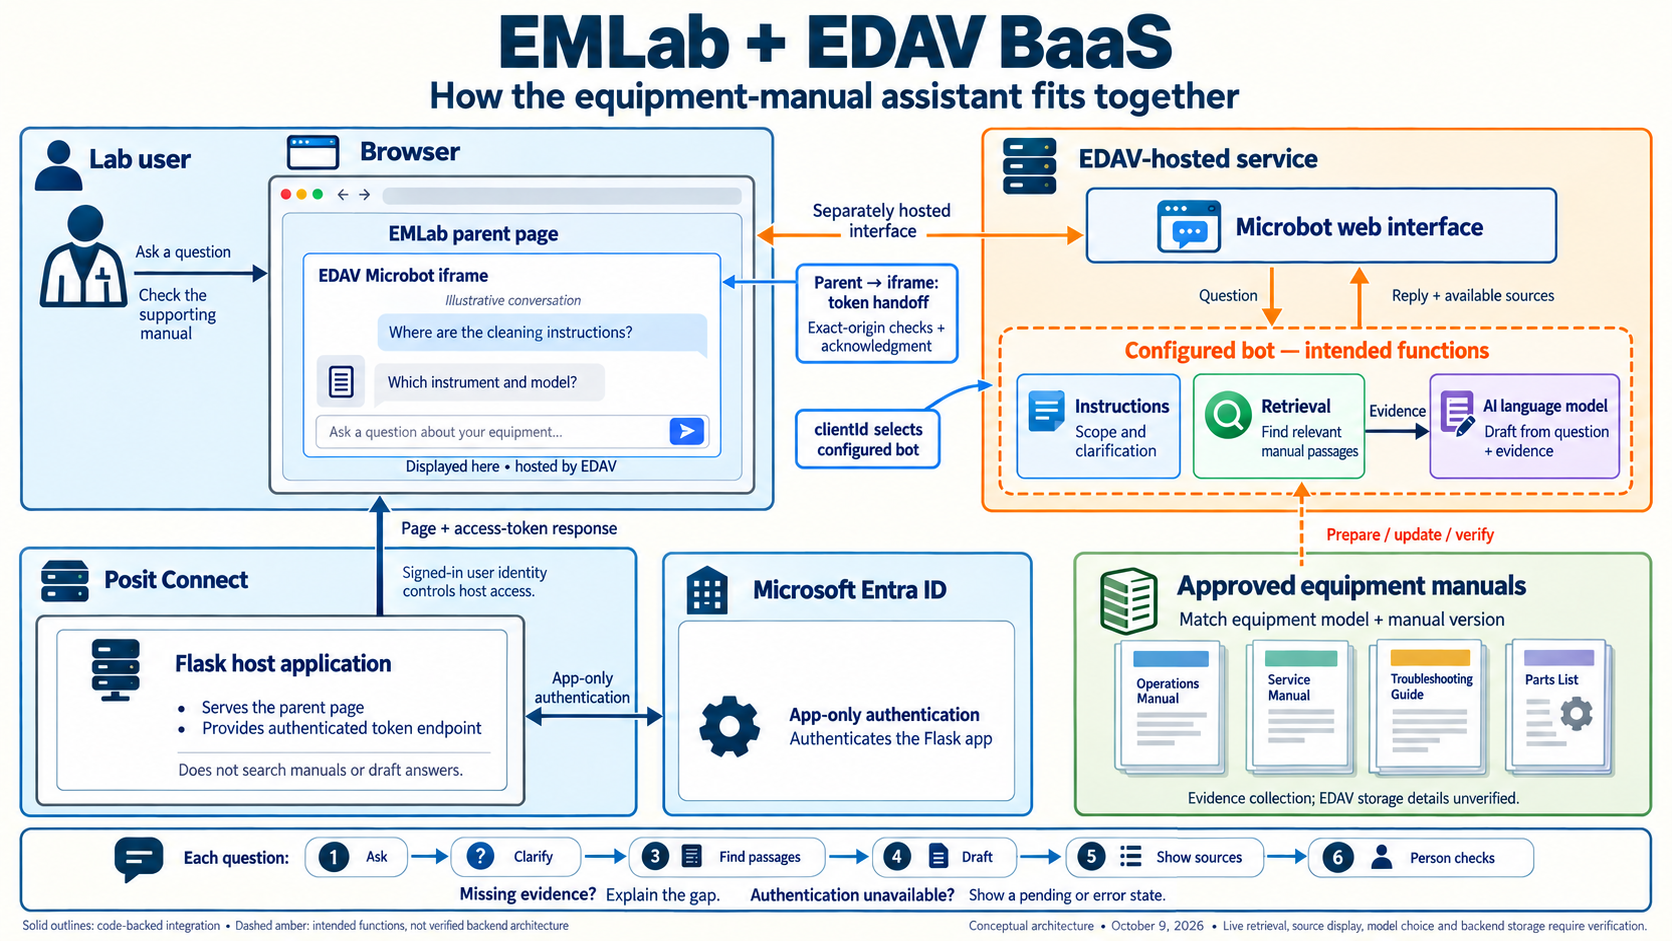
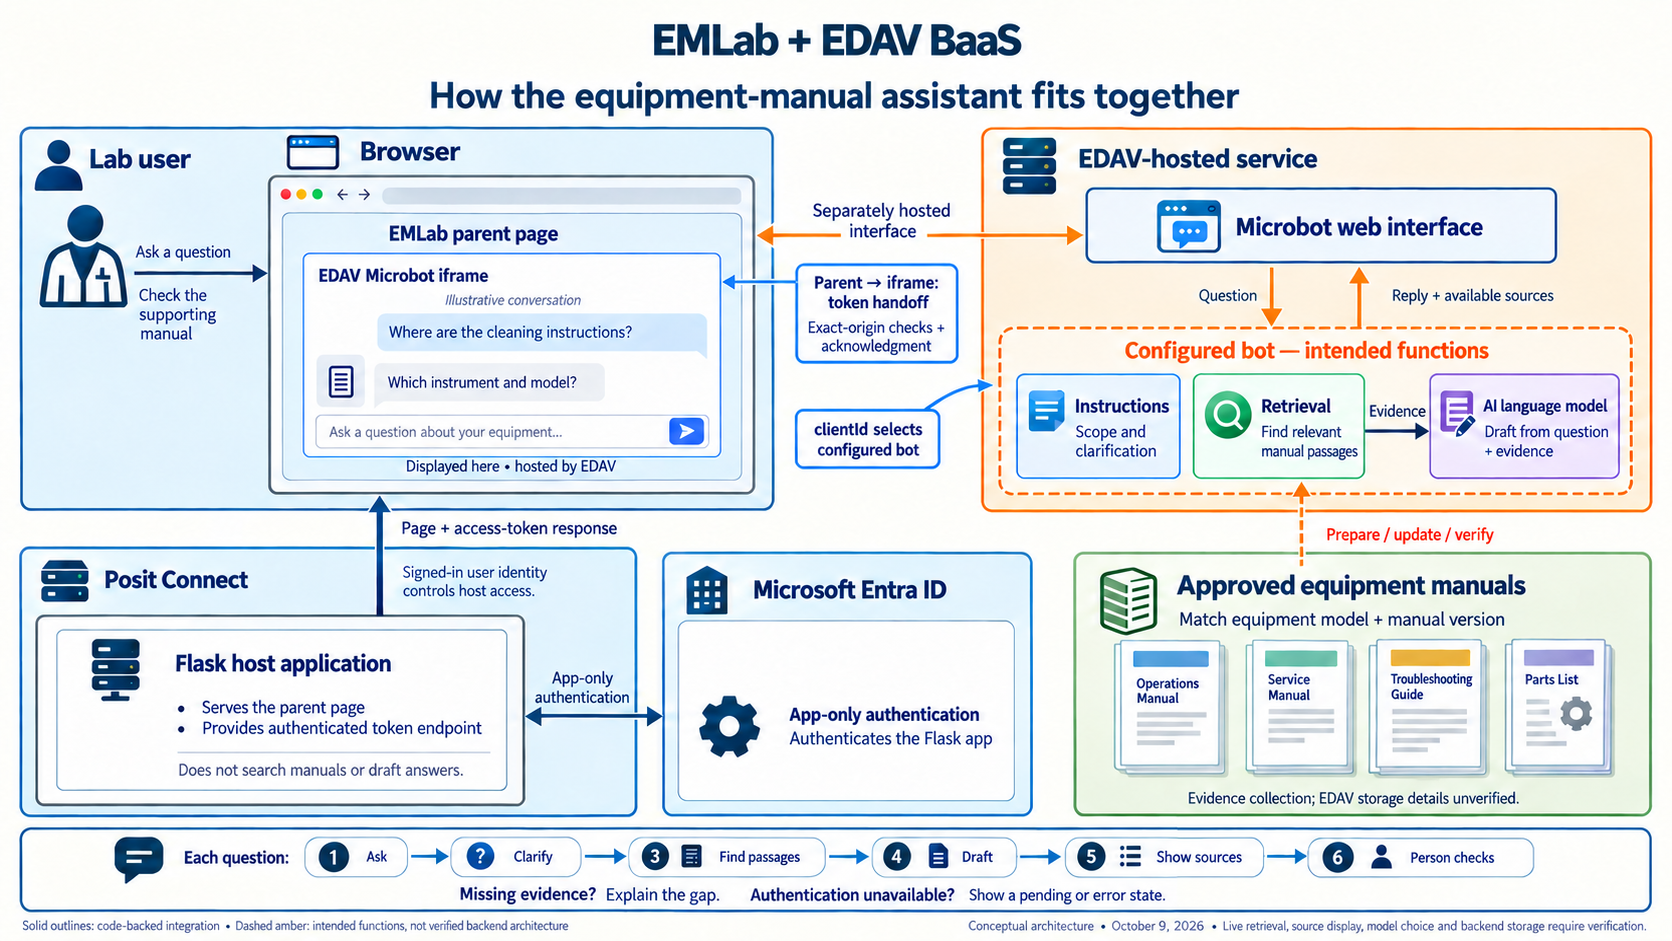
Reduce-architecture-title-size

diff --git a/ppt/images/generation-prompt.md b/ppt/images/generation-prompt.md
@@ -21,3 +21,7 @@ Keep the diagram visually exciting through clear nested boundaries, small restra
 ## Correction pass
 
 Edit this architecture image, preserving layout and all other labels. In Microsoft Entra ID box remove the entire 'User sign-in (authenticates people)' subsection and person icon and divider. Keep only app-only authentication, centered, with label 'Authenticates the Flask app'. User identity is controlled by Posit Connect as already indicated, but its sign-in provider is not verified. In the browser chat replace question with 'Where are the cleaning instructions?' and reply with 'Which instrument and model?' and add clear small label 'Illustrative conversation' above the chat bubbles. Correct the client identifier label to exact case 'clientId selects configured bot'. Change dashed amber borders around token handoff and clientId callouts to solid blue because these are code-backed integration, not intended backend functions. Preserve the dashed amber border of the intended bot functions and dashed manual-preparation arrow. Make the retrieval-to-language-model arrow point only right, labeled 'Evidence'. Keep all other architecture relationships and limitations. Output high-resolution 16:9 landscape PNG.
+
+## Title-size revision
+
+Make exactly one localized typography adjustment to this diagram: reduce the main title EMLab + EDAV BaaS to 55% of its current font size, keeping it centered in the existing top header band, with a refined semibold weight. Keep the subtitle unchanged in wording, size and location. Preserve every other element, text label, arrow, icon, boundary, color, footnote, canvas size and position exactly. Do not redesign or reflow the diagram. Only the large main title should become smaller; preserve its exact wording.
